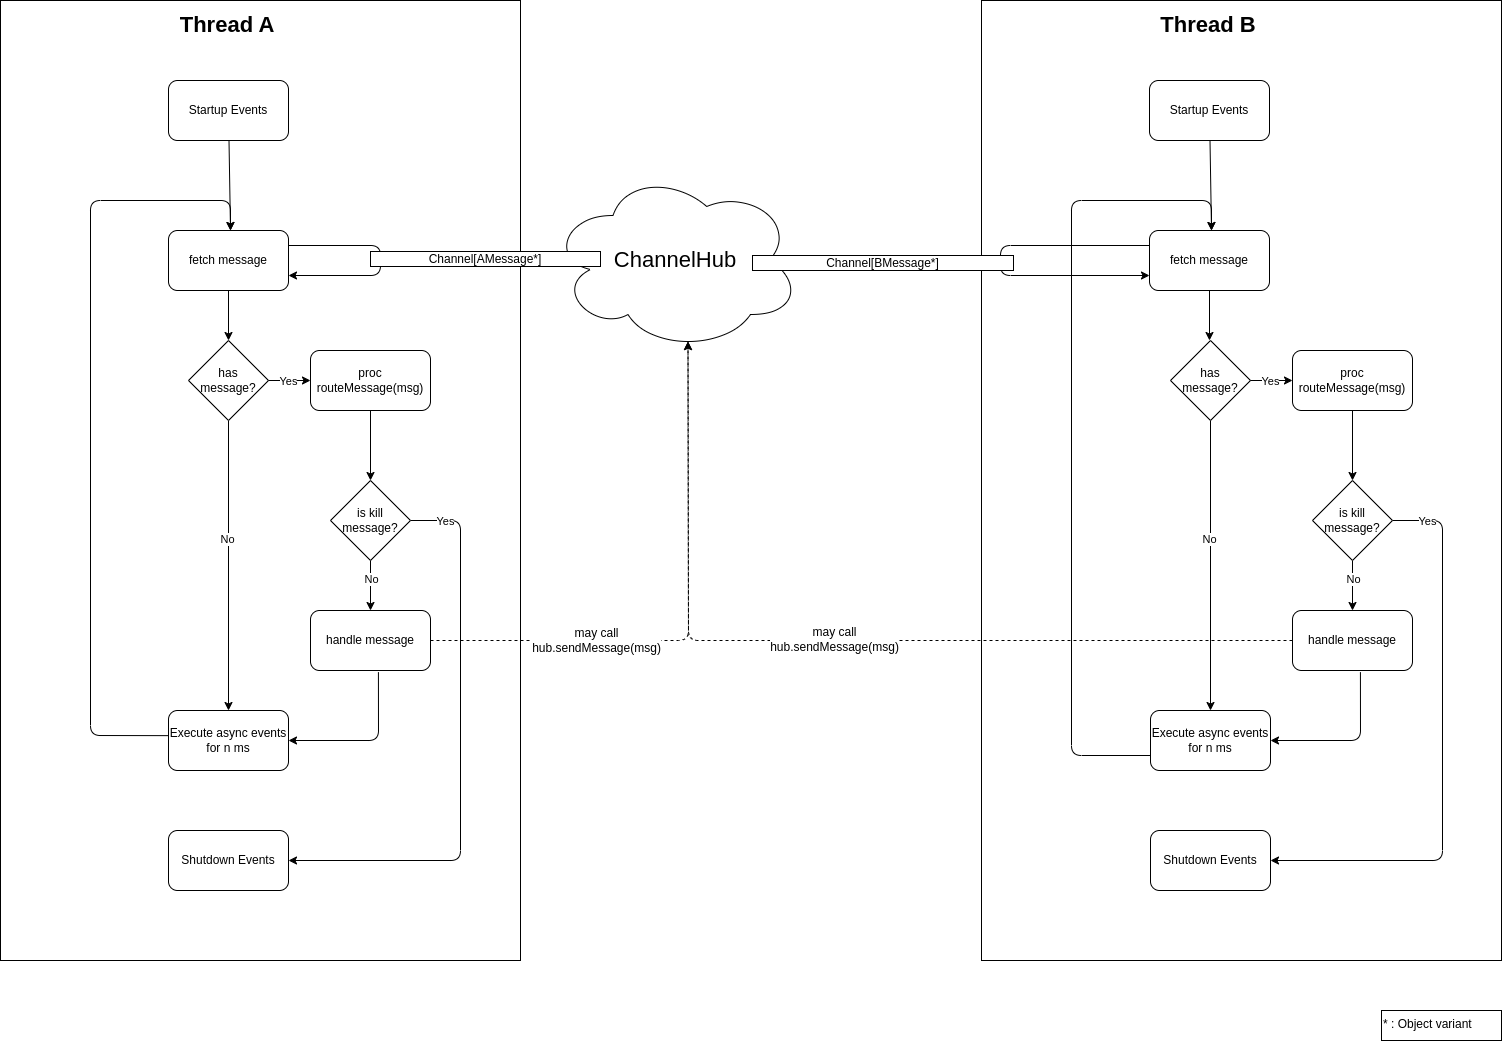
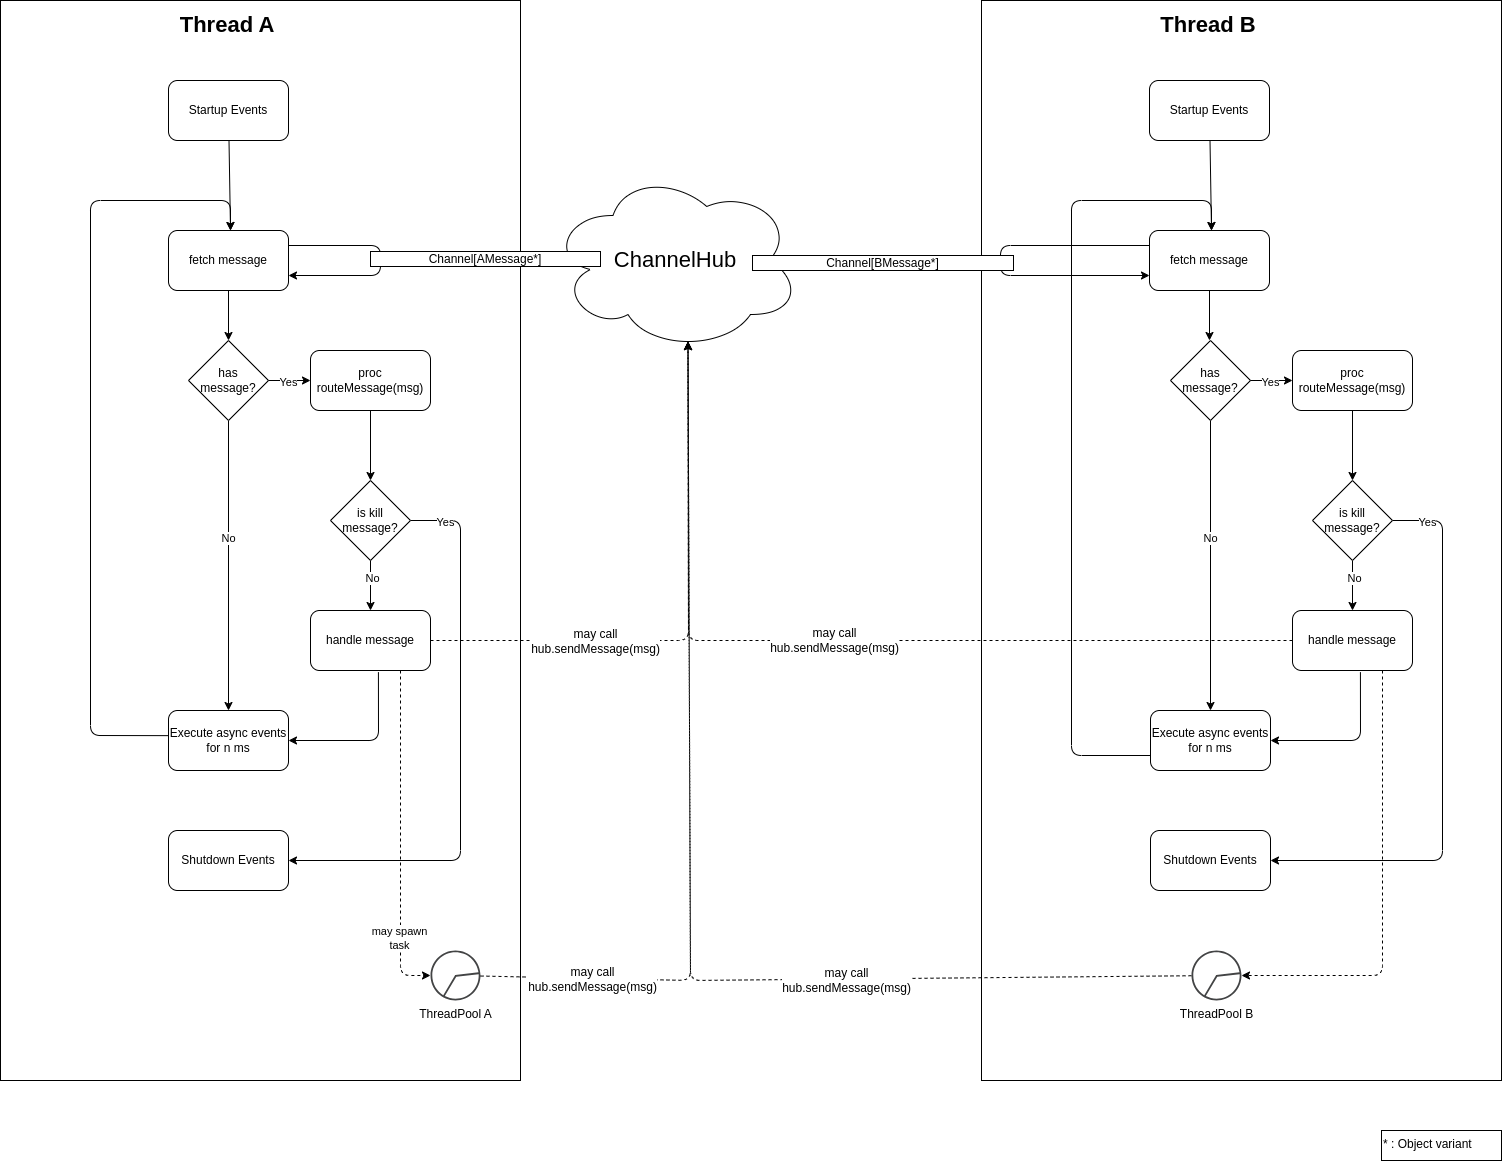
Update docs

diff --git a/README.md b/README.md
@@ -38,54 +38,19 @@ Add ThreadButler to your .nimble file:
 ## General Architecture
 
 The following statements describe the architecture behind threadButler:
+- 1 ThreadServer is an event-loop running on 1 Thread
+- Each ThreadServer has a name called `<ThreadName>`
+- Each ThreadServer has 1 dedicated Channel for messages sent to it
 - All Channels are combined into a single hub, the ChannelHub, which is accessible by all threads.
-- Each Thread has its own name `<ThreadName>`through which things are associated with it and names of data-types etc. related to it are inferred.
-- Each Thread has 1 enum `<ThreadName>Kinds` covering all kinds of messages that can be sent through its Channel
-- Each Thread has 1 Object Variant wrapping any kind of message that can be sent to a Thread
-- Each Thread has 1 Channel associated with it through which its associated object variant can be sent.
-- Each Object Variant has the name `<ThreadName>Message` suffix
-- Each Thread has its own mainloop.
-- Each Thread has its own routing proc `routeMessage` which "unpacks" the object variant to a message and calls the handler-proc of the appropriate route.
-- Each Thread has its own set of message-types it can receive and handler-procs for handling those message-types associated with it.
-- When a message of a message type T gets sent to a Thread, it get wrapped in the object variant associated with the Thread that T is registered with, then sent through their associated Channel on the ChannelHub
+- Each Thread has 1 Object Variant `<ThreadName>Message` wrapping any kind of message it can receive
+- The ThreadServer's Channel can only carry instances of `<ThreadName>Message`
+- Messages are wrapped in the Object Variant using helper procs `proc sendMessage`
+- Each ThreadServer has its own routing `proc routeMessage`. It "unwraps" the object variant `<ThreadName>Message` and calls the registered handler proc for it.
+- Each ThreadServer has its own (optional) threadPool for one-off tasks (e.g. waiting for a blocking operation)
 
 ### General Flow of Actions
 
 <img src="./assets/app_architecture.png">
-
-### Sequence Diagram
-A sequence diagram of the actions that happen to send a single message from thread A to thread B.
-```mermaid
-sequenceDiagram
-    actor User
-    box Grey ThreadA
-        participant ThreadALoop
-    end
-    box Green ChannelHub
-        participant ChannelHub
-        participant Channel
-    end
-    box Grey ThreadB
-        participant ThreadBLoop
-        participant Route
-        participant OutputAction
-    end
-
-    loop every sleepMs:
-        ThreadALoop -->> ThreadALoop: iterates
-    end
-    loop every sleepMs:
-        ThreadBLoop -->> ThreadBLoop: iterates
-    end
-    User->>ThreadALoop: triggers action
-    ThreadALoop ->> ChannelHub: sendMessage(msg: T)
-    ChannelHub ->> Channel: sendMsgToChannel<br>(msg: <ThreadName>Message)
-    ThreadBLoop ->> ChannelHub: readMsg(): Option[Msg]
-    ChannelHub ->> Channel: tryRecv(): Msg
-    Channel ->> ThreadBLoop: Msg
-    ThreadBLoop ->> Route: routeMessage(msg: Msg)
-    Route ->> OutputAction: handlerProc(msg: U)
-```
 
 ## Special Integrations
 ThreadButler provides small, simple utilities for easier integration with specific frameworks/libraries.
